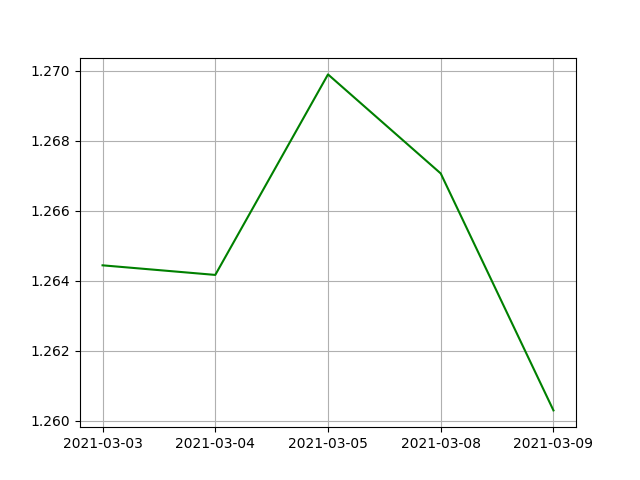
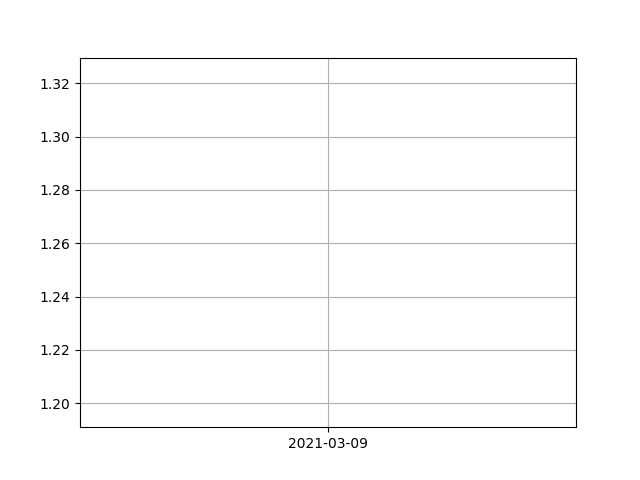
add validation to history handler

diff --git a/app/handler_logic/presenters.py b/app/handler_logic/presenters.py
@@ -7,7 +7,6 @@ from app.config import constants
 from app.config.config import AppConfig
 from app.database.database import DataBase
 from datetime import datetime, timedelta
-import os
 import matplotlib.pyplot as plt
 
 
@@ -116,7 +115,6 @@ class ExchangeMoneyPresenter(TelegramPresenter):
 class HistoryRatePresenter(TelegramPresenter):
     def __init__(self, update: Update, context: CallbackContext):
         super().__init__(update, context)
-        print(self._context.args)
         self.history_rate = self.get_history_rate_data()
 
     def validate(self):
@@ -130,34 +128,43 @@ class HistoryRatePresenter(TelegramPresenter):
             return False
 
     def get_history_rate_data(self):
-        base,  symbols = self._context.args[0].split('/')
-        start_at = datetime.now() - timedelta(days=int(self._context.args[2]))
-        end_at = str(datetime.now().date())
-        current_dict = get(AppConfig.RATE_HISTORY_API_LINK+base+'&start_at='+str(start_at.date())+'&end_at='+end_at+'&symbols='+symbols).json()['rates']
-        keylist = list(current_dict.keys())
-        keylist.sort()
-        new_dict = {}
-        for key in keylist:
-            new_dict.update({key: current_dict[key]})
-        return new_dict
+        if self.validate():
+            base,  symbols = self._context.args[0].split('/')
+            start_at = datetime.now() - timedelta(days=int(self._context.args[2]))
+            end_at = str(datetime.now().date())
+            try:
+                current_dict = get(AppConfig.RATE_HISTORY_API_LINK+base+'&start_at='+str(start_at.date())+'&end_at='+end_at+'&symbols='+symbols).json()['rates']
+                keylist = list(current_dict.keys())
+                keylist.sort()
+                new_dict = {}
+                for key in keylist:
+                    new_dict.update({key: current_dict[key]})
+            except KeyError:
+                return None
+            return new_dict
+        return None
 
     def generate_chart(self):
-        x = []
-        y = []
-        for value in self.history_rate:
-            x.append(value)
-            y.append(self.history_rate[value][self._context.args[0].split('/')[1]])
-        fig, ax = plt.subplots()
-        ax.plot(x, y, color="g")
-        plt.grid()
-        plt.savefig('chart.png')
+        if self.history_rate:
+            x = []
+            y = []
+            for value in self.history_rate:
+                x.append(value)
+                y.append(self.history_rate[value][self._context.args[0].split('/')[1]])
+            fig, ax = plt.subplots()
+            ax.plot(x, y, color="g")
+            plt.grid()
+            plt.savefig('chart.png')
+            return True
+        return False
 
     @property
     def text(self) -> str:
-        self.generate_chart()
-        photo = [InputMediaPhoto(media=open('chart.png', 'rb'))]
-        self._update.effective_user.bot.send_media_group(self._update.effective_user.id, media=photo)
-        return self._context.args[0] + ' graph'
+        if self.generate_chart():
+            photo = [InputMediaPhoto(media=open('chart.png', 'rb'))]
+            self._update.effective_user.bot.send_media_group(self._update.effective_user.id, media=photo)
+            return self._context.args[0] + ' graph'
+        return 'No exchange rate data is available for the selected currency'
 
 
     @property
